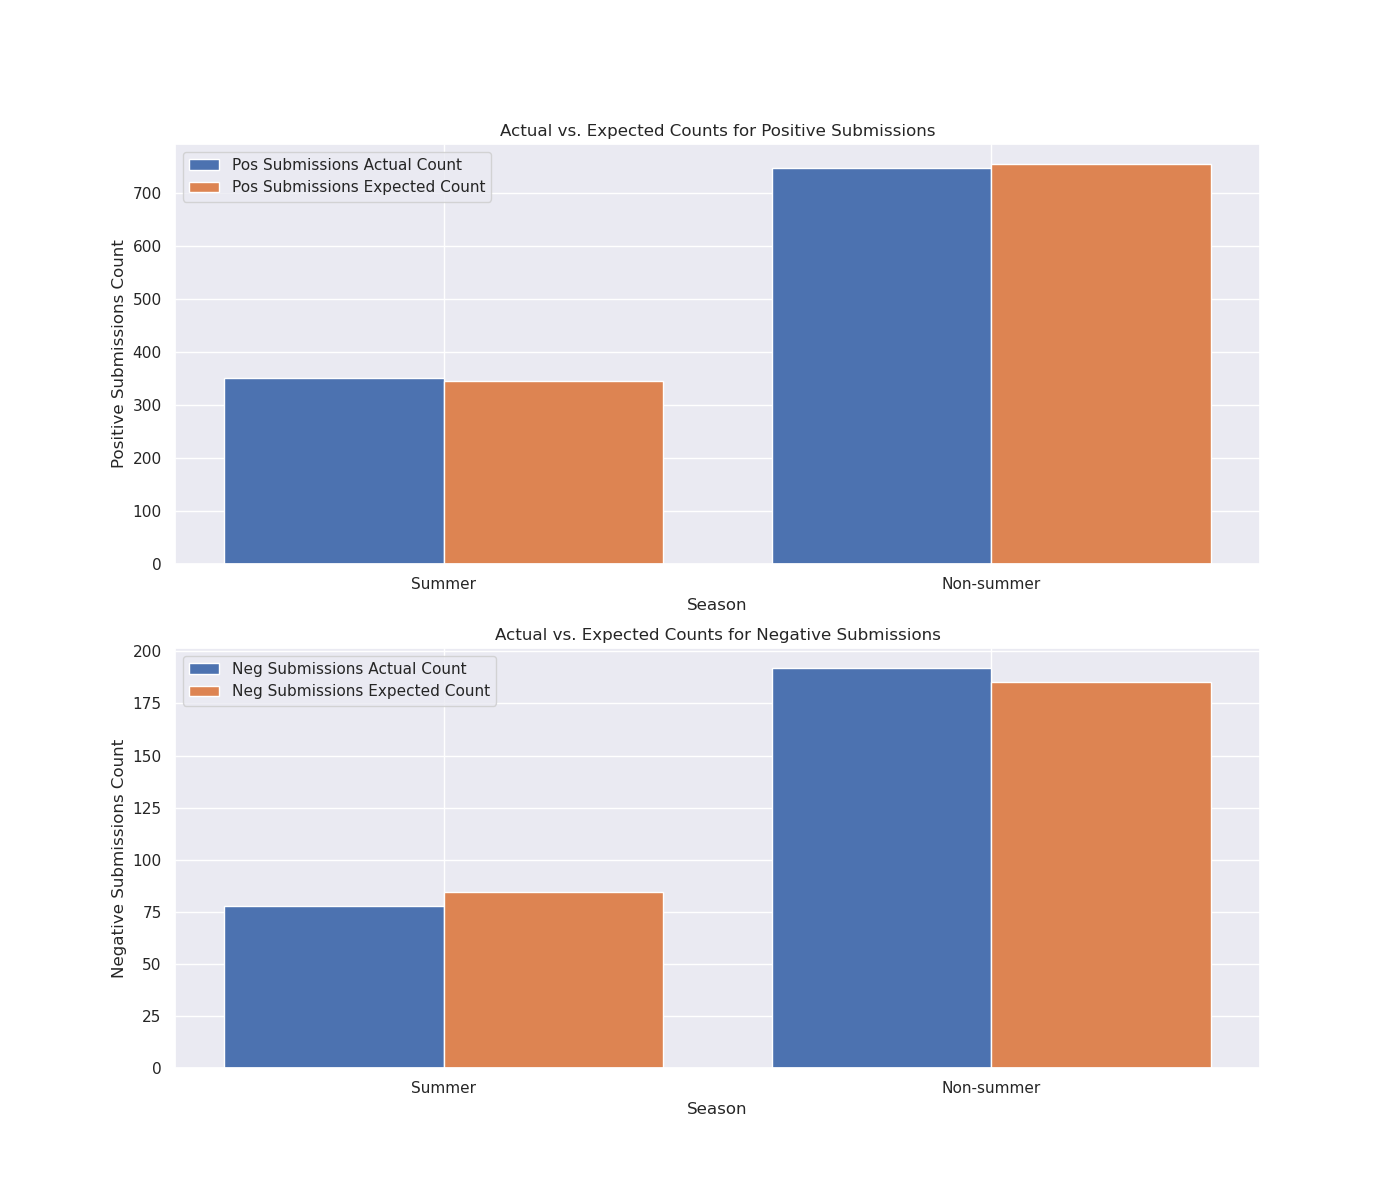
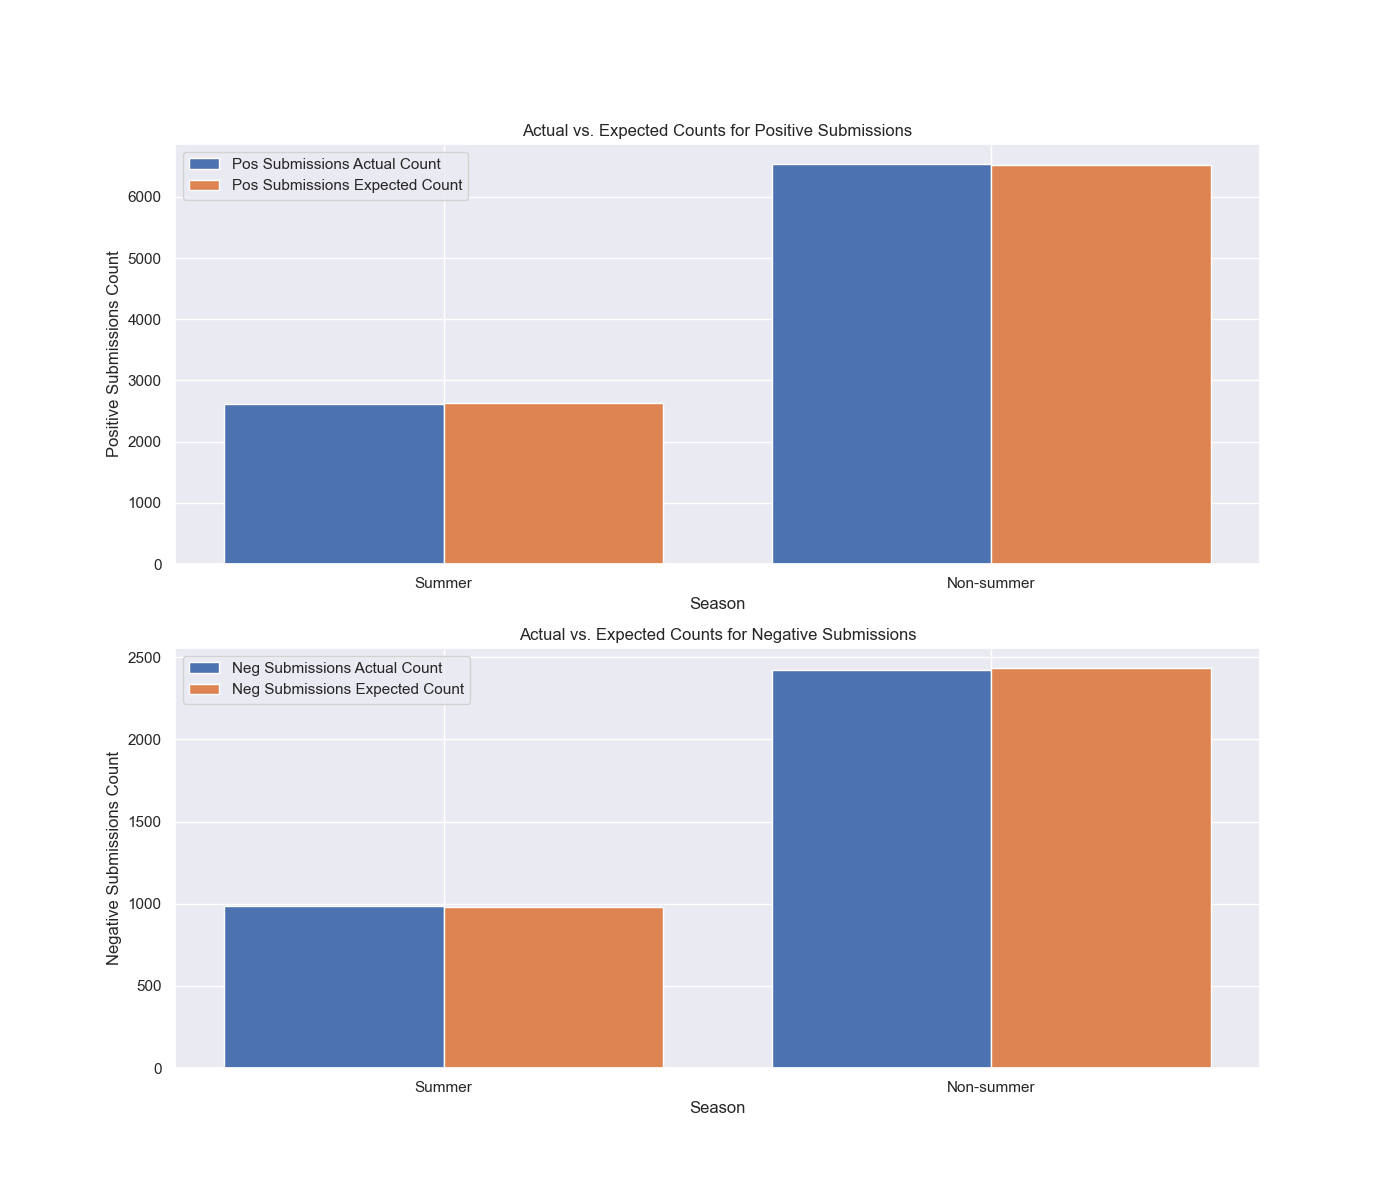
refactored code, and new plots

diff --git a/reddit_stats.py b/reddit_stats.py
@@ -3,7 +3,6 @@ assert sys.version_info >= (3, 10)  # make sure we have Python 3.10+
 from pyspark.sql import SparkSession, functions, types
 import os
 import numpy as np
-import pandas as pd
 from scipy.stats import chi2_contingency
 import matplotlib.pyplot as plt 
 import seaborn 
@@ -13,7 +12,6 @@ comments_schema = types.StructType([
     types.StructField('body', types.StringType()),
     types.StructField('sentiment', types.LongType()),
     types.StructField('subreddit', types.StringType()),
-    types.StructField('ups', types.LongType()),
     types.StructField('year', types.IntegerType()),
     types.StructField('month', types.IntegerType()),
 ])
@@ -143,7 +141,7 @@ def main(input_submissions, input_comments, output):
     
     chi2_submissions = chi2_contingency(contingency_submissions)
     
-    print(f'Chi-squared p-value submissions (4-seasons): ', chi2_submissions.pvalue)
+    print('Chi-squared p-value submissions (4-seasons): ', chi2_submissions.pvalue)
     
 
 
@@ -184,7 +182,7 @@ def main(input_submissions, input_comments, output):
 
     chi2_comments = chi2_contingency(contingency_comments)
     
-    print(f'Chi-squared p-value comments: (4-seasons)', chi2_comments.pvalue)
+    print('Chi-squared p-value comments: (4-seasons)', chi2_comments.pvalue)
     
     
     # Plot of actual vs. expected counts of positive submissions (4-seasons)
@@ -276,7 +274,7 @@ def main(input_submissions, input_comments, output):
     plt.close()
 
     
-    # Chi-squared Test (Summer vs. Non-summer)
+    # Chi-squared Test (Summer (June-September) vs. Non-summer)
     
     summer_months = [6, 7, 8, 9]
     winter_months = [1, 2, 3, 4, 5, 10, 11, 12]
@@ -303,7 +301,7 @@ def main(input_submissions, input_comments, output):
     ]
 
     chi2_submissions = chi2_contingency(contingency_submissions)
-    print(f'Chi-squared p-value submissions (2-seasons, June-September): ', chi2_submissions.pvalue)
+    print('Chi-squared p-value submissions (2-seasons, June-September): ', chi2_submissions.pvalue)
 
 
     summer_comments_filter = reddit_comments_data.where(functions.col('month').isin(summer_months))
@@ -328,7 +326,7 @@ def main(input_submissions, input_comments, output):
     ]
 
     chi2_comments = chi2_contingency(contingency_comments)
-    print(f'Chi-squared p-value comments (2-seasons, June-September): ', chi2_comments.pvalue)
+    print('Chi-squared p-value comments (2-seasons, June-September): ', chi2_comments.pvalue)
 
 
     # Plot of actual vs. expected counts of positive submissions (Summer vs. Non-summer)
@@ -413,6 +411,146 @@ def main(input_submissions, input_comments, output):
     
     plt.tight_layout()
     plt.savefig(output + '/actual_vs_expected_coms_2_seasons_june_september.png')
+    plt.close()
+    
+    
+    # Chi-squared Test (Summer (June-August) vs. Non-summer)
+    
+    summer_months = [6, 7, 8]
+    winter_months = [1, 2, 3, 4, 5, 9, 10, 11, 12]
+    
+    summer_submissions_filter = reddit_submissions_data.where(functions.col('month').isin(summer_months))
+    winter_submissions_filter = reddit_submissions_data.where(functions.col('month').isin(winter_months))
+
+    summer_submissions_neg = summer_submissions_filter.where(functions.col('sentiment') == 0)
+    summer_submissions_pos = summer_submissions_filter.where(functions.col('sentiment') == 4)
+
+    winter_submissions_neg = winter_submissions_filter.where(functions.col('sentiment') == 0)
+    winter_submissions_pos = winter_submissions_filter.where(functions.col('sentiment') == 4)
+
+    summer_sub_neg_counts = summer_submissions_neg.count()
+    summer_sub_pos_counts = summer_submissions_pos.count()
+
+    winter_sub_neg_counts = winter_submissions_neg.count()
+    winter_sub_pos_counts = winter_submissions_pos.count()
+
+    print(summer_sub_pos_counts, summer_sub_neg_counts, winter_sub_pos_counts, winter_sub_neg_counts)
+    contingency_submissions = [
+        [summer_sub_pos_counts, summer_sub_neg_counts],
+        [winter_sub_pos_counts, winter_sub_neg_counts]
+    ]
+
+    chi2_submissions = chi2_contingency(contingency_submissions)
+    print('Chi-squared p-value submissions (2-seasons, June-August): ', chi2_submissions.pvalue)
+
+
+    summer_comments_filter = reddit_comments_data.where(functions.col('month').isin(summer_months))
+    winter_comments_filter = reddit_comments_data.where(functions.col('month').isin(winter_months))
+
+    summer_comments_neg = summer_comments_filter.where(functions.col('sentiment') == 0)
+    summer_comments_pos = summer_comments_filter.where(functions.col('sentiment') == 4)
+
+    winter_comments_neg = winter_comments_filter.where(functions.col('sentiment') == 0)
+    winter_comments_pos = winter_comments_filter.where(functions.col('sentiment') == 4)
+
+    summer_com_neg_counts = summer_comments_neg.count()
+    summer_com_pos_counts = summer_comments_pos.count()
+
+    winter_com_neg_counts = winter_comments_neg.count()
+    winter_com_pos_counts = winter_comments_pos.count()
+
+    print(summer_com_pos_counts, summer_com_neg_counts, winter_com_pos_counts, winter_com_neg_counts)
+    contingency_comments = [
+        [summer_com_pos_counts, summer_com_neg_counts],
+        [winter_com_pos_counts, winter_com_neg_counts]
+    ]
+
+    chi2_comments = chi2_contingency(contingency_comments)
+    print('Chi-squared p-value comments (2-seasons, June-August): ', chi2_comments.pvalue)
+    
+    
+    # Plot of actual vs. expected counts of positive submissions (Summer vs. Non-summer)
+    
+    season_names = ['Summer', 'Non-summer']
+    
+    plt.figure(figsize=(14, 12))
+    plt.subplot(2, 1, 1)
+    
+    temporary_x_ticks = np.array([0, 1])
+    
+    subs_pos_actual = [summer_sub_pos_counts, winter_sub_pos_counts]
+    
+    subs_pos_expected = chi2_submissions.expected_freq[:,0]
+    
+    plt.bar(temporary_x_ticks - 0.2, subs_pos_actual, width=0.4, label='Pos Submissions Actual Count', align='center')
+    plt.bar(temporary_x_ticks + 0.2, subs_pos_expected, width=0.4, label='Pos Submissions Expected Count', align='center')
+    
+    plt.xlabel('Season')
+    plt.ylabel('Positive Submissions Count')
+    plt.xticks(temporary_x_ticks, season_names)
+    plt.title('Actual vs. Expected Counts for Positive Submissions')
+    plt.legend()
+    
+    
+    # Plot of actual vs. expected counts of negative submissions (Summer vs. Non-summer)
+    
+    plt.subplot(2, 1, 2)
+    
+    subs_neg_actual = [summer_sub_neg_counts, winter_sub_neg_counts]
+    
+    subs_neg_expected = chi2_submissions.expected_freq[:,1]
+    
+    plt.bar(temporary_x_ticks - 0.2, subs_neg_actual, width=0.4, label='Neg Submissions Actual Count', align='center')
+    plt.bar(temporary_x_ticks + 0.2, subs_neg_expected, width=0.4, label='Neg Submissions Expected Count', align='center')
+    
+    plt.xlabel('Season')
+    plt.ylabel('Negative Submissions Count')
+    plt.xticks(temporary_x_ticks, season_names)
+    plt.title('Actual vs. Expected Counts for Negative Submissions')
+    plt.legend()
+    
+    plt.savefig(output + '/actual_vs_expected_subs_2_seasons_june_august.png')
+    plt.close()
+    
+    
+    # Plot of actual vs. expected counts of positive comments (Summer vs. Non-summer)
+
+    plt.figure(figsize=(14, 12))
+    plt.subplot(2, 1, 1)
+
+    coms_pos_actual = [summer_com_pos_counts, winter_com_pos_counts]
+
+    coms_pos_expected = chi2_comments.expected_freq[:,0]
+
+    plt.bar(temporary_x_ticks - 0.2, coms_pos_actual, width=0.4, label='Pos Comments Actual Count', align='center')
+    plt.bar(temporary_x_ticks + 0.2, coms_pos_expected, width=0.4, label='Pos Comments Expected Count', align='center')
+
+    plt.xlabel('Season')
+    plt.ylabel('Positive Comments Count')
+    plt.xticks(temporary_x_ticks, season_names)
+    plt.title('Actual vs. Expected Counts for Positive Comments')
+    plt.legend()
+
+
+    # Plot of actual vs. expected counts of negative comments (Summer vs. Non-summer)
+
+    plt.subplot(2, 1, 2)
+
+    coms_neg_actual = [summer_com_neg_counts, winter_com_neg_counts]
+
+    coms_neg_expected = chi2_comments.expected_freq[:,1]
+
+    plt.bar(temporary_x_ticks - 0.2, coms_neg_actual, width=0.4, label='Neg Comments Actual Count', align='center')
+    plt.bar(temporary_x_ticks + 0.2, coms_neg_expected, width=0.4, label='Neg Comments Expected Count', align='center')
+
+    plt.xlabel('Season')
+    plt.ylabel('Negative Comments Count')
+    plt.xticks(temporary_x_ticks, season_names)
+    plt.title('Actual vs. Expected Counts for Negative Comments')
+    plt.legend()
+    
+    plt.tight_layout()
+    plt.savefig(output + '/actual_vs_expected_coms_2_seasons_june_august.png')
     plt.close()
     
     

diff --git a/reddit_data_etl.py b/reddit_data_etl.py
@@ -15,6 +15,7 @@ comments_schema = types.StructType([
 ])
 
 submissions_schema = types.StructType([
+    types.StructField('num_comments', types.LongType()),
     types.StructField('selftext', types.StringType()),
     types.StructField('subreddit', types.StringType()),
     types.StructField('year', types.IntegerType()),
@@ -29,11 +30,11 @@ def main():
     
     reddit_submissions.where(reddit_submissions['subreddit'].isin(subs)) \
         .where((functions.col('year') >= 2021) & (functions.col('year') <= 2023)) \
-        .sample(fraction=0.5) \
+        .sample(fraction=0.1) \
         .write.json(output + '/submissions', mode='overwrite', compression='gzip')
     reddit_comments.where(reddit_comments['subreddit'].isin(subs)) \
         .where((functions.col('year') >= 2021) & (functions.col('year') <= 2023)) \
-        .sample(fraction=0.5) \
+        .sample(fraction=0.1) \
         .write.json(output + '/comments', mode='overwrite', compression='gzip')
     
 

diff --git a/reddit_data_cleaning.py b/reddit_data_cleaning.py
@@ -65,8 +65,8 @@ def main(inputs):
                                                                   'body')
     
     
-    reddit_submissions_data.write.json(inputs + '/submissions', mode='overwrite', compression='gzip')
-    reddit_comments_data.write.json(inputs + '/comments', mode='overwrite', compression='gzip')
+    reddit_submissions_data.write.json(inputs + '-submissions', mode='overwrite', compression='gzip')
+    reddit_comments_data.write.json(inputs + '-comments', mode='overwrite', compression='gzip')
     
     
 inputs = sys.argv[1]
